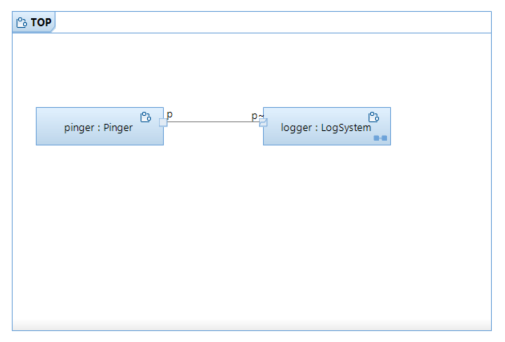
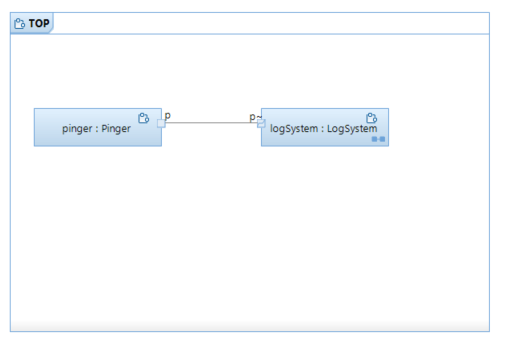
Use unique part names for more clarity

Changed region(s): [[0.0, 0.0292, 0.9802, 0.9649], [0.0594, 0.2924, 0.7723, 0.4386]]

diff --git a/README.md b/README.md
@@ -3,7 +3,7 @@
 
 ## Sample Application
 
-The application consists of a `pinger` which emits 10 `ping` messages at a certain speed, and a `logger` which prints a log message each time it receives one of those `ping` messages. By default the `ping` messages are emitted slowly with 2 seconds between each message, and the log messages just contain a simple "Pinged" message.
+The application consists of a `pinger` which emits 10 `ping` messages at a certain speed, and a `logSystem` which prints a log message each time it receives one of those `ping` messages. By default the `ping` messages are emitted slowly with 2 seconds between each message, and the log messages just contain a simple "Pinged" message.
 
 Here is the composite structure diagram of the `Top` capsule that shows the simple structure of this application:
 
@@ -19,11 +19,11 @@ We can implement these variations by means of capsules that inherit from the cap
 
 For an optional capsule part we can type it with an abstract capsule, and then at run-time decide which sub capsule to incarnate the part with. The capsule part `logger` in `LogSystem` is such an example. It's typed by `AbstractLogger` and by default it gets incarnated with an instance of the `NoTimestampLogger`. However, by defining another sub capsule `TimestampLogger` we can implement the logging in a different way, including a timestamp for each log message.
 
-For a fixed capsule part we must type it with a concrete capsule, but we can still define a sub capsule with a modified behavior that we can choose to use instead. `Pinger` is such an example, and it has a sub capsule `FastPinger` which emits the `ping` messages at a faster pace (0.5 seconds between each).
+A fixed capsule part is normally typed with a concrete capsule, but we can still define a sub capsule with a modified behavior that we can choose to use instead. `Pinger` is such an example, and it has a sub capsule `FastPinger` which emits the `ping` messages at a faster pace (0.5 seconds between each).
 
 ## Configuring Dependency Injection
 
-The TargetRTS provides a class `RTInjector` which allows create functions to be registered for a certain capsule part. Whenever a capsule instance is created in a capsule part for which such a create function has been registered, the TargetRTS will call that function to let it create the capsule instance. For all other capsule parts, the default capsule instantiation takes place.
+The TargetRTS provides a class `RTInjector` which allows create functions to be registered for capsule parts. Whenever a capsule instance is created in a capsule part for which such a create function has been registered, the TargetRTS will call that function to let it create the capsule instance. For all other capsule parts, the default capsule instantiation takes place.
 
 The registration of create functions must happen early, at least before the first capsule instance gets created which we may want to customize by means of dependency injection. In this application we do it in the constructor of the `Top` capsule.
 
@@ -46,7 +46,7 @@ The macros are used in the `Top` capsule constructor to configure dependency inj
 
 ```cpp
 #ifdef TIMESTAMP_LOGGER
-RTInjector::getInstance().registerCreateFunction("/logger:0/logger",
+RTInjector::getInstance().registerCreateFunction("/logSystem:0/logger",
 		[this](RTController * c, RTActorRef * a, int index) {						
 			return new TimestampLogger_Actor(c, a);
 		}
@@ -71,4 +71,4 @@ You can either run the application from the transformation configuration context
 <target-folder>/default> executable -URTS_DEBUG=quit
 ```
 
-The application prints 10 log messages with 2 or 0.5 seconds interval, either with or without timestamps.
+The application prints 10 log messages with a 2 or 0.5 seconds interval, either with or without timestamps.

diff --git a/test.md b/test.md
@@ -1,0 +1,6 @@
+# RTist in Code - Community Edition
+
+This extension lets you develop event-driven, stateful, realtime applications in C++. Use the Art language and graphical diagrams, such as state charts, to work at a higher abstraction level than C++ code and with more automation.
+
+**NOTE!**
+On December 12, 2023, the first version of [Code RealTime](https://secure-dev-ops.github.io/code-realtime) was released. Thereby the RTist in Code beta program is now over. Please download and use Code RealTime instead of this extension!
